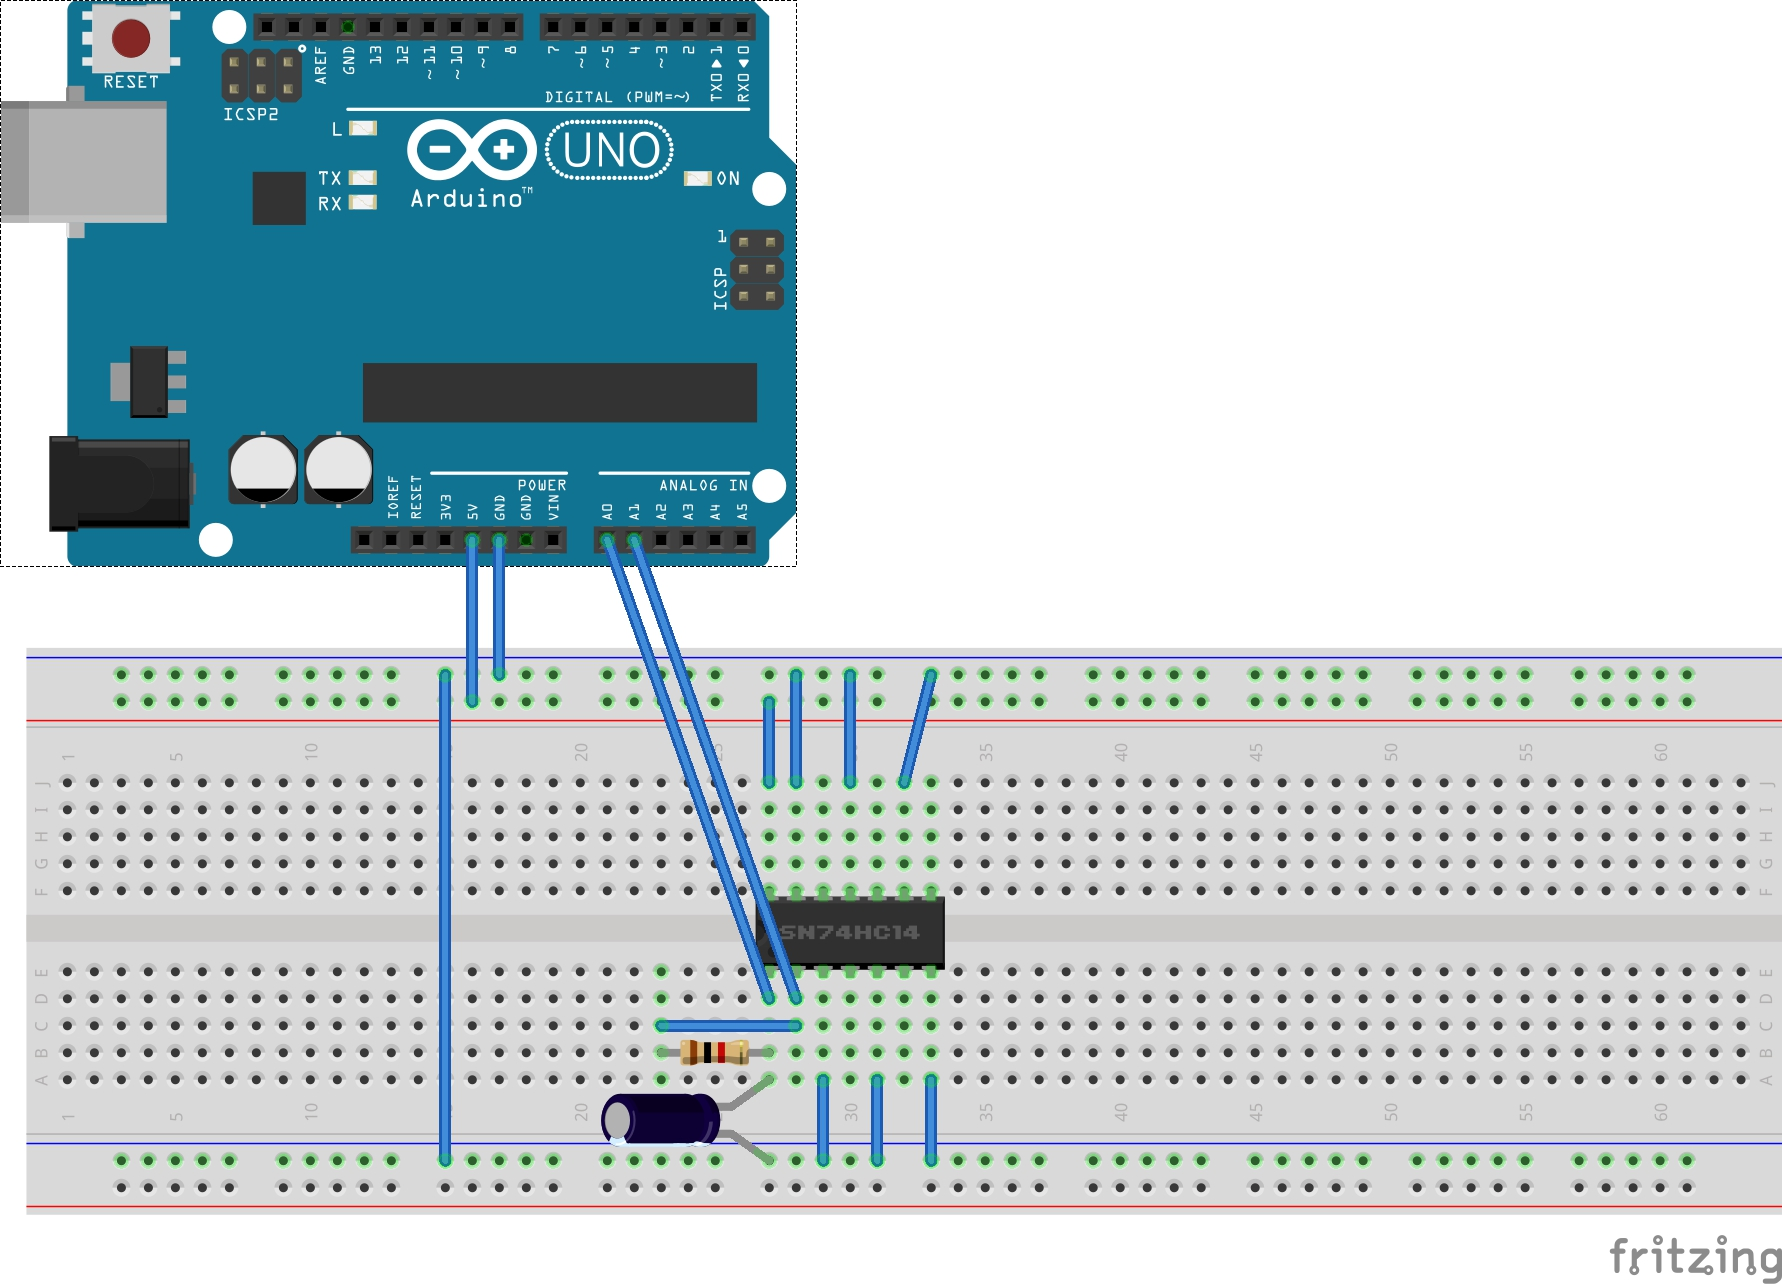
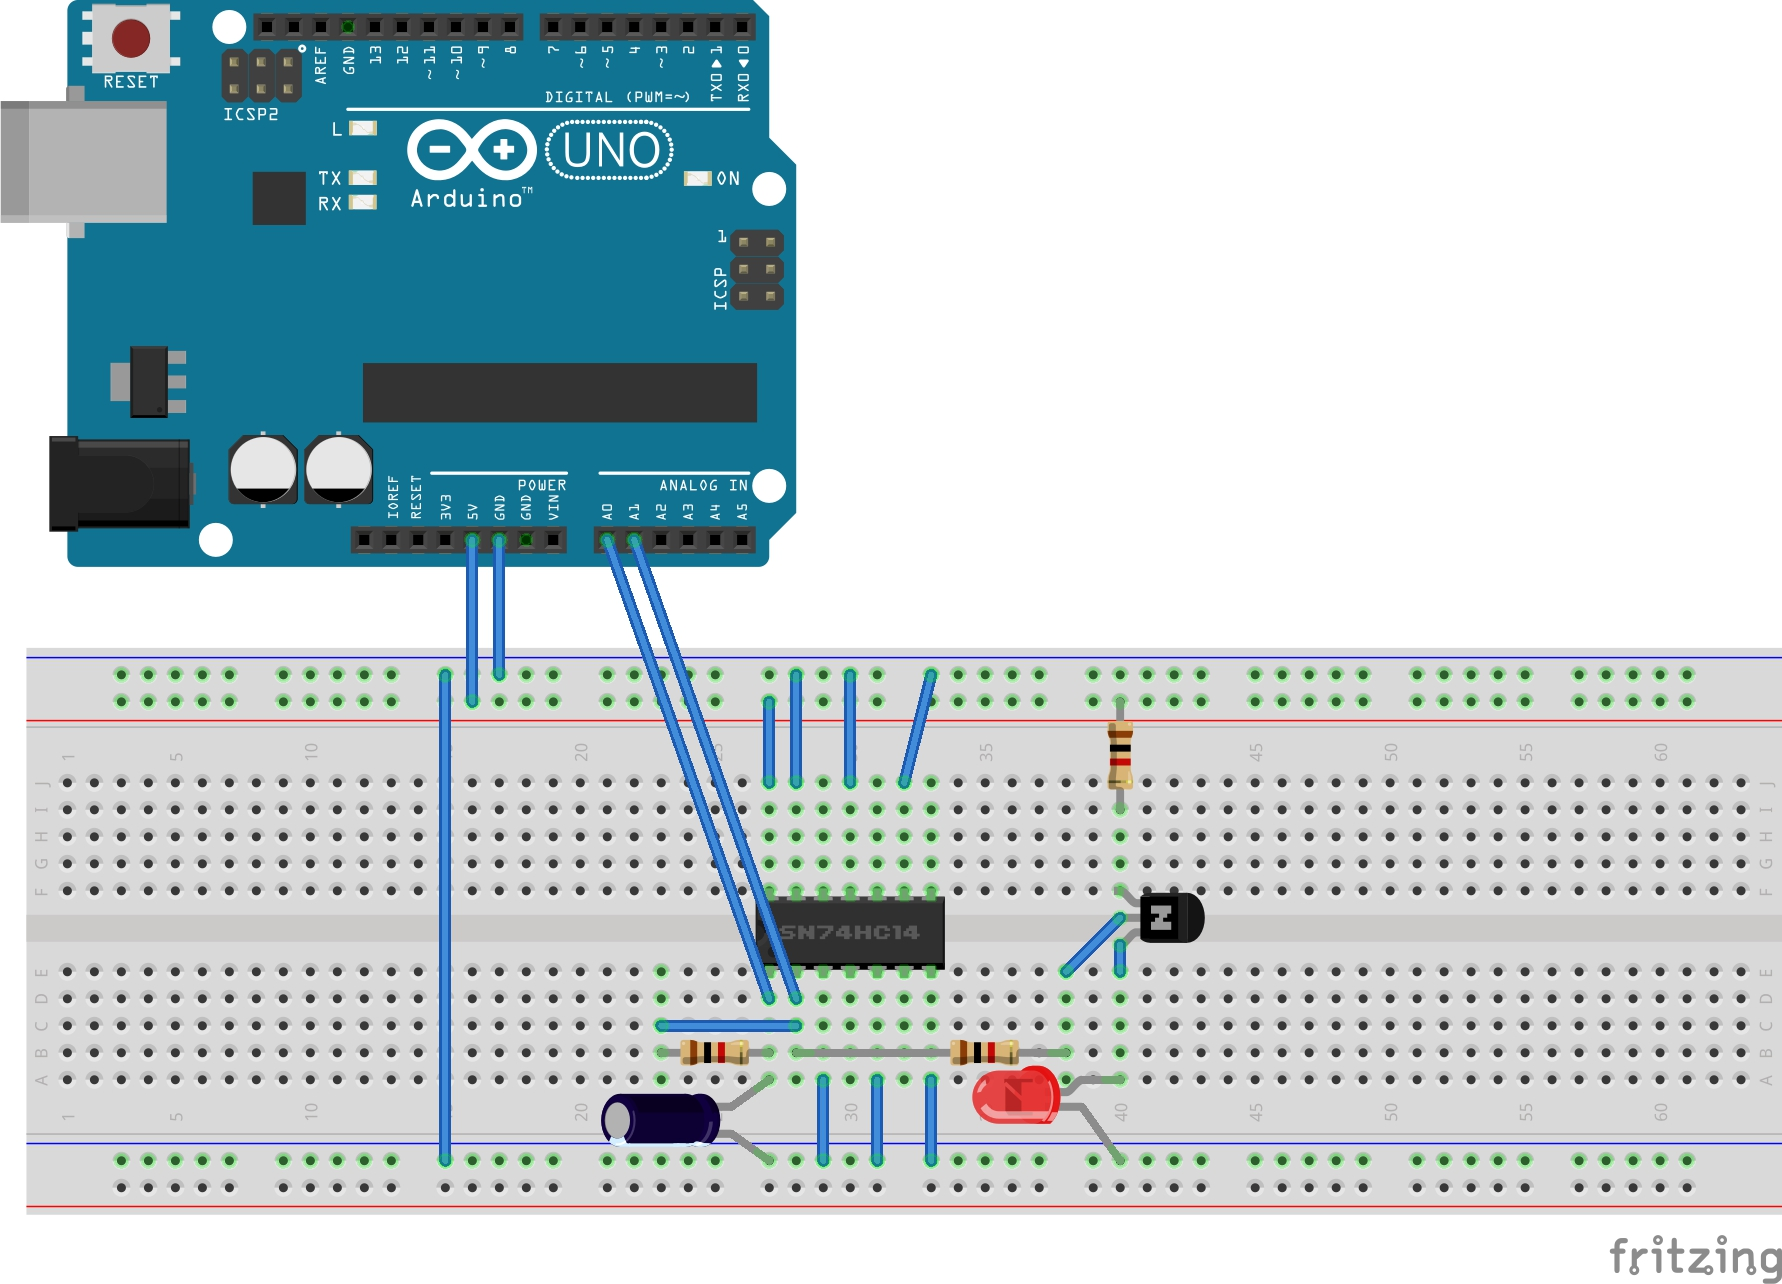
add output stage (LED) to Schmitt Oscillator test

Changed region(s): [[0.4321, 0.5607, 0.679, 0.9034], [0.6173, 0.8723, 0.6481, 0.9034]]

diff --git a/Electronics101/SchmittOscillator/README.md b/Electronics101/SchmittOscillator/README.md
@@ -4,7 +4,7 @@ Use the 74LS14 Hex Inverter with Schmitt Trigger Inputs chip to generate an osci
 
 Here's a quick video of the circuit in action:
 
-[![Schmitt Oscillator](http://img.youtube.com/vi/-_85OFB7r08/0.jpg)](http://www.youtube.com/watch?v=-_85OFB7r08)
+[![Schmitt Oscillator](http://img.youtube.com/vi/QV99ATHP2Xs/0.jpg)](http://www.youtube.com/watch?v=QV99ATHP2Xs)
 
 ## Notes
 
@@ -17,6 +17,9 @@ The frequency of the oscillation is calculated (with f Hz, R in ohms, C in farad
     f = 1 / (1.2 * R * C)
     f = 1 / (1.2 * 1000 * 0.00047)
     f = 1.77 Hz
+
+The oscillating output from the inverter is used to drive the base of a general-purpose NPN transistor, switching a LED on and off in turn.
+The transistor is used to isolate the 74LS14 from the load, as it is not designed to directly handle any significant current.
 
 [PlotNValues (a simple Processing sketch)](../../processing/PlotNValues) reads the data from the serial port and plots the input and output value over time, with some coloration effects thrown in for good measure. In other words, we're using Arduino and Processing as a basic oscilloscope! And it kind of works, mainly because the frequency is so low.
 
